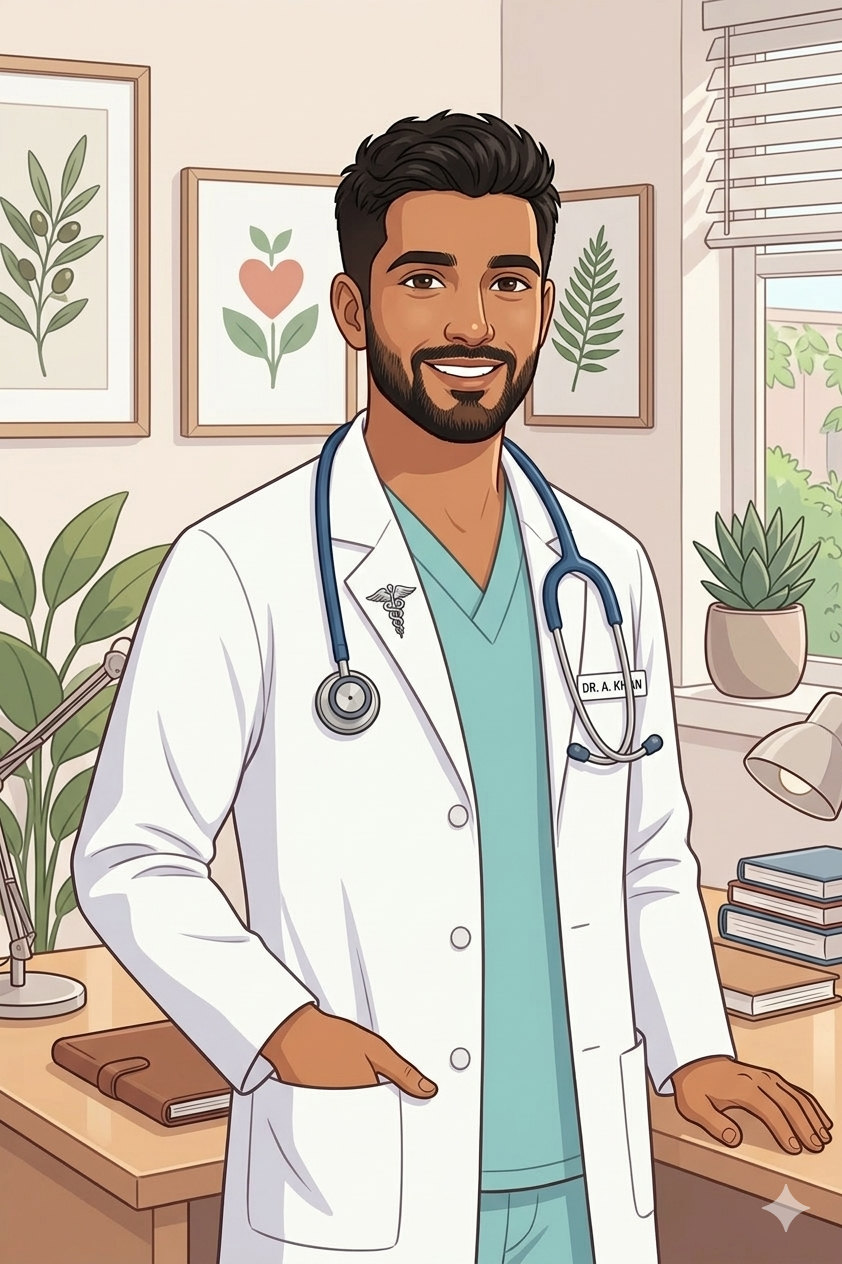
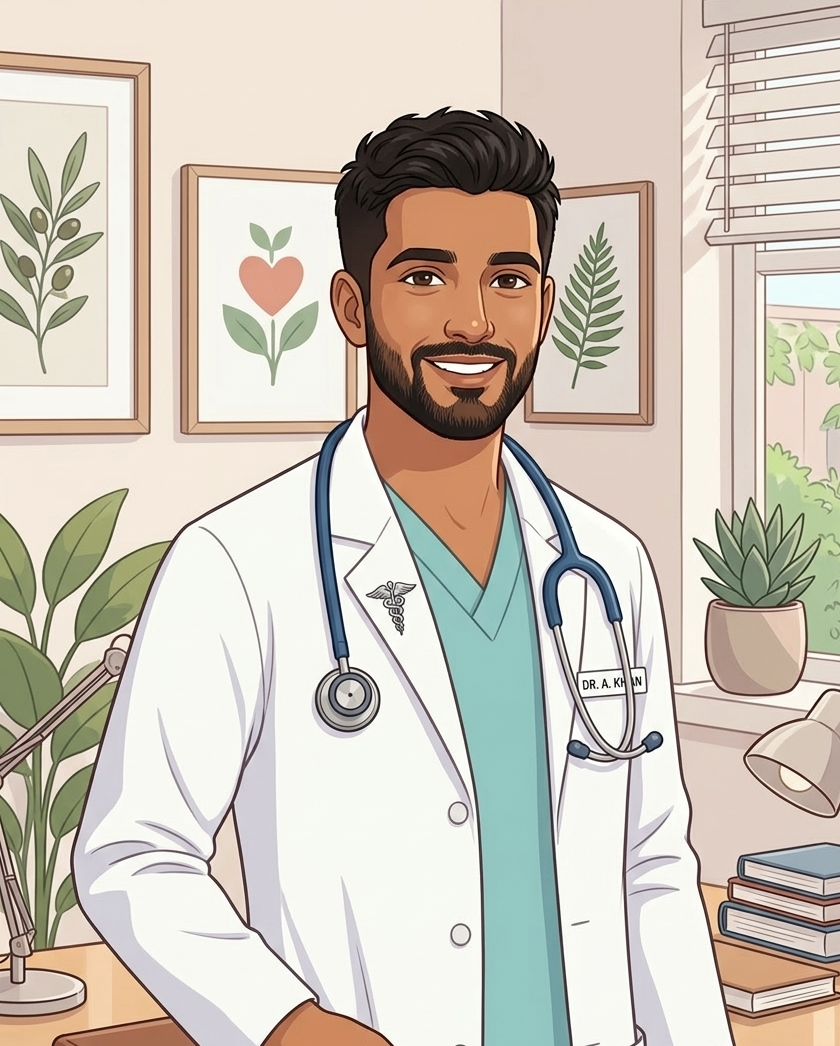
feat: Update doctor images in Hero and Doctors components; replace outdated images with new ones for improved representation

diff --git a/src/components/Hero.tsx b/src/components/Hero.tsx
@@ -16,7 +16,7 @@ export const Hero = () => {
                             <div className="flex -space-x-2">
                                 <div className="w-8 h-8 rounded-full border-2 border-white overflow-hidden relative bg-gray-200">
                                     <Image
-                                        src="/imagess/4image.jpeg"
+                                        src="/imagess/doctor-1.png"
                                         alt="Doctor"
                                         fill
                                         className="object-cover"
@@ -24,7 +24,7 @@ export const Hero = () => {
                                 </div>
                                 <div className="w-8 h-8 rounded-full border-2 border-white overflow-hidden relative bg-gray-200">
                                     <Image
-                                        src="/imagess/12image.jpeg"
+                                        src="/imagess/doctor-2.png"
                                         alt="Doctor"
                                         fill
                                         className="object-cover"
@@ -32,7 +32,7 @@ export const Hero = () => {
                                 </div>
                                 <div className="w-8 h-8 rounded-full border-2 border-white overflow-hidden relative bg-gray-200">
                                     <Image
-                                        src="/imagess/13image.jpeg"
+                                        src="/imagess/doctor-3.png"
                                         alt="Doctor"
                                         fill
                                         className="object-cover"

diff --git a/src/app/about/page.tsx b/src/app/about/page.tsx
@@ -74,7 +74,7 @@ export default function AboutPage() {
                         <div className="relative">
                             <div className="aspect-video rounded-2xl overflow-hidden shadow-xl bg-gray-200">
                                 <Image
-                                    src="/imagess/3image.jpeg"
+                                    src="/imagess/1image.png"
                                     alt="Shri Durga Hospital Building"
                                     fill
                                     className="object-cover object-center"

diff --git a/src/components/Doctors.tsx b/src/components/Doctors.tsx
@@ -68,7 +68,7 @@ export const Doctors = () => {
                                     alt={doctor.name}
                                     width={160}
                                     height={160}
-                                    className="object-cover w-full h-full"
+                                    className="object-contain w-full h-full"
                                 />
                             </div>
                             <h3 className="text-sm font-semibold text-primary mb-1 w-full leading-tight">
